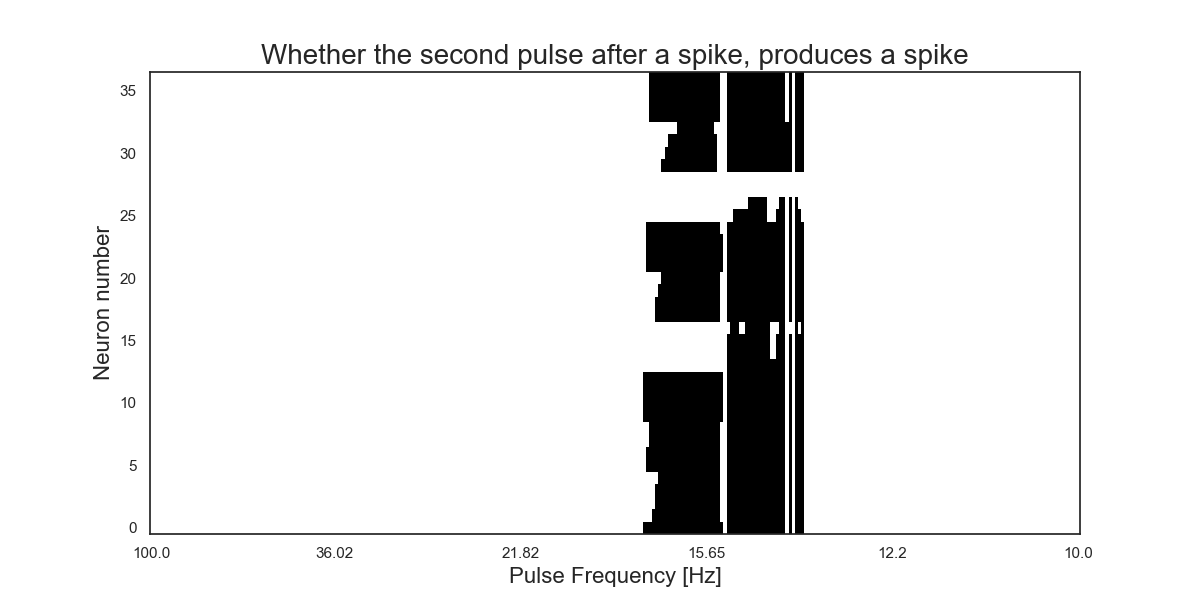
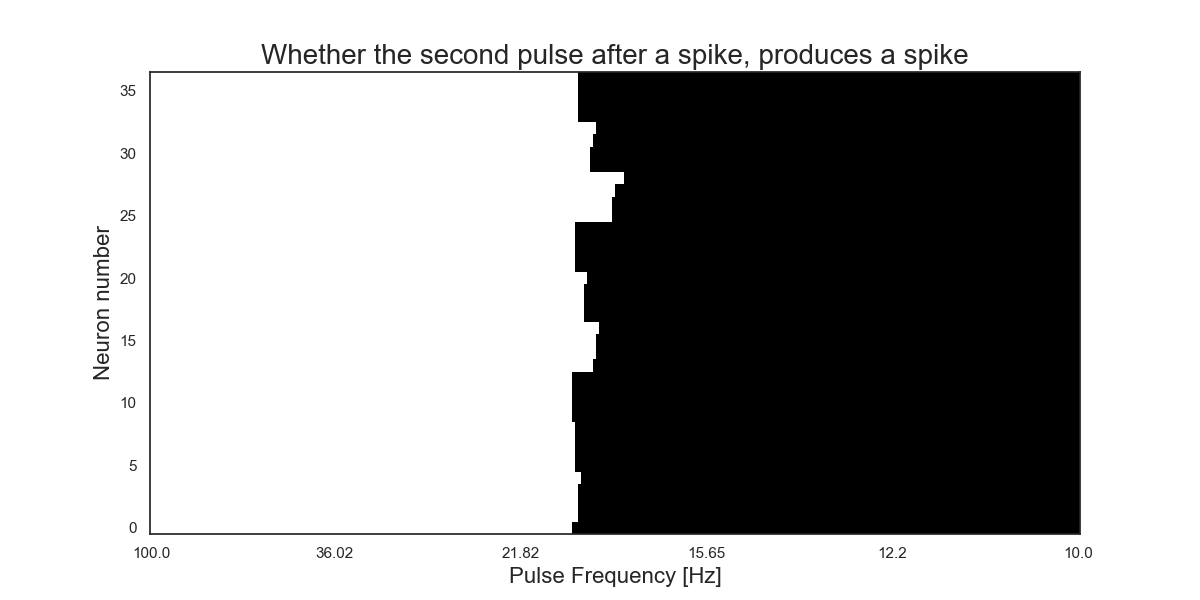
Implemented three_pulses into simulation.py and main.py

Changed region(s): [[0.4625, 0.12, 0.925, 0.9]]

diff --git a/Resonance/main.py b/Resonance/main.py
@@ -97,8 +97,13 @@ def main():
     neuron_name = conf["Neuron"]["name"]
     
     # Simulation 1 outputs
-    frequencies = dict["Simulation 1"]["frequencies"]
-    bands = dict["Simulation 1"]["bands"]
+    frequencies1 = dict["Simulation 1"]["frequencies"]
+    bands1 = dict["Simulation 1"]["bands"]
+
+    # Three pulse output
+    frequencies2 = dict["Three pulses"]["frequencies"]
+    bands2 = dict["Three pulses"]["bands"]
+    num_spikes_three_pulses = dict["Three pulses"]["num_spikes"]
 
     # Simulation 2 outputs
     N_pulses = int(conf["Simulation 2"]["N_pulses"])
@@ -116,29 +121,52 @@ def main():
     """ Test 1 plots """
 
     ## Now plot the data...
-    fig1, ax1 = plot_resonance_map(frequencies, bands)
+    fig, ax, _ = plot_resonance_map(frequencies1, bands1)
     if args.save: plt.savefig(f"{output_directory}\\{neuron_name}_resonator_unordered.png")
-    plt.show()
+    plt.close(fig)
 
     # plot ordered by 'e'
-    fig2, ax2 = plot_resonance_for_autapse_param(param_df, frequencies, bands, ["e"])
+    fig, ax, _ = plot_resonance_for_autapse_param(param_df, frequencies1, bands1, ["e"])
     if args.save: plt.savefig(f"{output_directory}\\{neuron_name}_resonator_by_e.png")
-
+    plt.close(fig)
     
     # plot ordered by 'f'
-    fig3, ax3 = plot_resonance_for_autapse_param(param_df, frequencies, bands, ["f"])
+    fig, ax, _ = plot_resonance_for_autapse_param(param_df, frequencies1, bands1, ["f"])
     if args.save: plt.savefig(f"{output_directory}\\{neuron_name}_resonator_by_f.png")
-
+    plt.close(fig)
 
     # plot ordered by 'tau'
-    fig4, ax4 = plot_resonance_for_autapse_param(param_df, frequencies, bands, ["tau"])
+    fig, ax, _ = plot_resonance_for_autapse_param(param_df, frequencies1, bands1, ["tau"])
     if args.save: plt.savefig(f"{output_directory}\\{neuron_name}_resonator_by_tau.png")
+    plt.close(fig)
 
-
-    fig4, ax4 = plot_resonance_for_autapse_param(param_df, frequencies, bands, ["e", "f"])
+    fig, ax, _ = plot_resonance_for_autapse_param(param_df, frequencies1, bands1, ["e", "f"])
     if args.save: plt.savefig(f"{output_directory}\\{neuron_name}_resonator_by_e_f.png")
+    plt.close(fig)
 
+    """ Three pulse tests """
 
+    fig, ax, _ = plot_resonance_map(frequencies2, bands2, title = 'Resonance map for three-pulse protocol')
+    if args.save: plt.savefig(f"{output_directory}\\{neuron_name}_resonator_3pulses_unordered.png")
+    plt.close(fig)
+
+    fig, ax, _ = plot_resonance_for_autapse_param(param_df, frequencies2, bands2, ["e", "f"], title = 'Resonance map for three-pulse protocol ordered by')
+    if args.save: plt.savefig(f"{output_directory}\\{neuron_name}_resonator_3pulses_by_e_f.png")
+    plt.close(fig)
+
+    fig, ax, im = plot_resonance_map(frequencies2, num_spikes_three_pulses, title = 'Number of spikes emitted by \nthe 3-pulse protocol')
+    cbar = fig.colorbar(im, ax=ax)
+    cbar.set_label("Number of spikes produced")
+    if args.save: plt.savefig(f"{output_directory}\\{neuron_name}_resonator_num_spikes_unordered.png")
+    plt.close(fig)
+
+    fig, ax, im = plot_resonance_for_autapse_param(param_df, frequencies2, num_spikes_three_pulses, ['e', 'f'], title = 'Number of spikes emitted by \nthe 3-pulse protocol')
+    cbar = fig.colorbar(im, ax=ax)
+    cbar.set_label("Number of spikes produced")
+    if args.save: plt.savefig(f"{output_directory}\\{neuron_name}_resonator_num_spikes_by_e_f.png")
+    plt.close(fig)
+    
+    
     """ Test 2 plots """
 
     #Spike to pulse ratios

diff --git a/Resonance/simulation.py b/Resonance/simulation.py
@@ -71,13 +71,15 @@ def sim(args, conf):
     ## 1st test: 2 pulses, each produce a spike. What is the timing of the second pulse?
     # frequencies:      shape (N_freq, ), frequencies of the pulse relative to the spike
     # bands:            shape (N_neurons, N_freq), for each neuron, when 2 spikes were emitted
-    frequencies, bands, pulse_height, time_to_spike = first_test(conf, N_neurons, params_arr)
-
-    resonance_bands_base_neuron = get_resonance_bands(frequencies, bands[0, :]) # idx 0 is the base neuron
+    frequencies1, bands1, pulse_height, time_to_spike = first_test(conf, N_neurons, params_arr)
+    resonance_bands_base_neuron = get_resonance_bands(frequencies1, bands1[0, :]) # idx 0 is the base neuron
 
     largest_band_idx = np.argmax(np.diff(resonance_bands_base_neuron, axis = 1))
     peak_resonance = np.mean(resonance_bands_base_neuron[largest_band_idx])
     print(f"Peak Resonance: {peak_resonance}")
+
+    # 3 pulse test
+    frequencies2, bands2, num_spikes_three_pulses = three_pulse_test(conf, N_neurons, params_arr) 
 
     ## 2nd test: a train of pulses all equally spaced. We want to see if a spike occurrs on subsequent pulses
     N_pulses, multipulse_freq, num_spikes, spike_freq, spike_times, pulse_starts = second_test(conf, N_neurons, params_arr, peak_resonance, pulse_height+10, time_to_spike)
@@ -88,7 +90,8 @@ def sim(args, conf):
 
     # At this stage just save the outputs
     results_dict = {"Parameters": params_arr,
-                    "Simulation 1": {"frequencies": frequencies, "bands": bands},
+                    "Simulation 1": {"frequencies": frequencies1, "bands": bands1},
+                    "Three pulses": {"frequencies": frequencies2, "bands": bands2, "num_spikes": num_spikes_three_pulses},
                     "Simulation 2": {"multipulse_freq": multipulse_freq, "num_spikes": num_spikes, "spike_freq": spike_freq, "spike_times": spike_times, "pulse_starts": pulse_starts}}
 
     # save the results dict as a pickle
@@ -243,16 +246,6 @@ def three_pulse_test(conf, N_neurons, params_arr):
 
     X, T, spikes = batch1.update_batch(dt, N_iter, I_inj)
 
-    print(f"spikes: {np.shape(spikes)}")
-
-    # test plot
-    idx = 4000
-    freq_idx = int(idx/N_neurons)
-    print(f"frequency: {freq_range[freq_idx]}")
-    print(f"ISI: {1000/freq_range[freq_idx]}")
-
-    fig, ax = plot_potential_versus_injected(X[idx, :], T, I_inj[idx])
-    plt.show()
 
     # get resonance bands
     pulse2_start  = np.zeros(N_sims)
@@ -271,7 +264,7 @@ def three_pulse_test(conf, N_neurons, params_arr):
     bands = spike_boolean.reshape((N_neurons, N_freq), order = 'F') # where 2 spikes were generated. Maps to the frequencies.
     num_spikes = num_spikes.reshape((N_neurons, N_freq), order = 'F')
     
-    return freq_range, bands, num_spikes, pulse_height, time_to_spike
+    return freq_range, bands, num_spikes
 
 
 

diff --git a/Resonance/functions.py b/Resonance/functions.py
@@ -244,7 +244,7 @@ def get_resonance_bands(resonant_f, spike_boolean):
 
 """- - - - PLOTTING FUNCTIONS - - - - """
 
-def plot_resonance_map(frequencies, bands):
+def plot_resonance_map(frequencies, bands, title = 'Resonance Map of neurons'):
     """
     Returns a heat map of the resonance frequencies of the neurons
 
@@ -259,16 +259,16 @@ def plot_resonance_map(frequencies, bands):
 
     fig, ax = plt.subplots(1, 1, figsize = (8, 8))
 
-    ax.imshow(bands, origin = 'lower', cmap = 'Greys', extent = [frequencies[0], frequencies[-1], 0, np.shape(bands)[0]])
+    im = ax.imshow(bands, origin = 'lower', cmap = 'Greys', aspect = 'auto', extent = [frequencies[0], frequencies[-1], 0, np.shape(bands)[0]])
 
     ax.set_xlabel('Frequency (Hz)', fontsize = 16)
     ax.set_ylabel('Neuron index', fontsize = 16)
 
-    ax.set_title('Resonance Map of neurons', fontsize = 20)
+    ax.set_title(title, fontsize = 20)
 
-    return fig, ax
+    return fig, ax, im
 
-def plot_resonance_for_autapse_param(param_df, frequencies, bands, autapse_params):
+def plot_resonance_for_autapse_param(param_df, frequencies, bands, autapse_params, title = 'Resonance Map of neurons ordered by'):
     """
     Plots the resonance properties of neurons for a given autapse parameter.
     Y label only shows the first parameter value sorting the list.
@@ -302,7 +302,7 @@ def plot_resonance_for_autapse_param(param_df, frequencies, bands, autapse_param
 
     fig, ax = plt.subplots(1, 1, figsize = (8, 8))
 
-    ax.imshow(bands[sorted_indices, :], origin = 'lower', cmap = 'Greys', aspect = 'auto', extent = [frequencies[0], frequencies[-1], 0, len(param_values)])
+    im = ax.imshow(bands[sorted_indices, :], origin = 'lower', cmap = 'Greys', aspect = 'auto', extent = [frequencies[0], frequencies[-1], 0, len(param_values)])
     ax.set_xlabel('Frequency (Hz)', fontsize = 16)
     ax.set_ylabel(f'{autapse_params[0]} value', fontsize = 16)
     cumsum = np.insert(cumsum, 0, 0.)
@@ -314,10 +314,10 @@ def plot_resonance_for_autapse_param(param_df, frequencies, bands, autapse_param
     ax.set_xlim((xmin, xmax))
     ax.hlines(y = np.cumsum(num_neurons_with_param), xmin = xmin, xmax = xmax, colors = "grey", linestyles = "dashed")
 
-    ax.set_title(f'Resonance Map of neurons ordered by {autapse_params}', fontsize = 20)
+    ax.set_title(f'{title} {autapse_params}', fontsize = 20)
     #ax.legend()
 
-    return fig, ax
+    return fig, ax, im
 
 """ SIMULATION 2 PLOTS"""
 # Plots of the spike to pulse ratio from simulation 2
@@ -650,7 +650,6 @@ def plot_total_spikes(num_spikes, multipulse_freq, param_df, param_order = []):
                             pulse frequencies sampled.
     """
     N_freq = np.shape(multipulse_freq)[0]
-    print(f"N_freq: {N_freq}")
 
     min_spikes = np.min(num_spikes)
     max_spikes = np.max(num_spikes)
